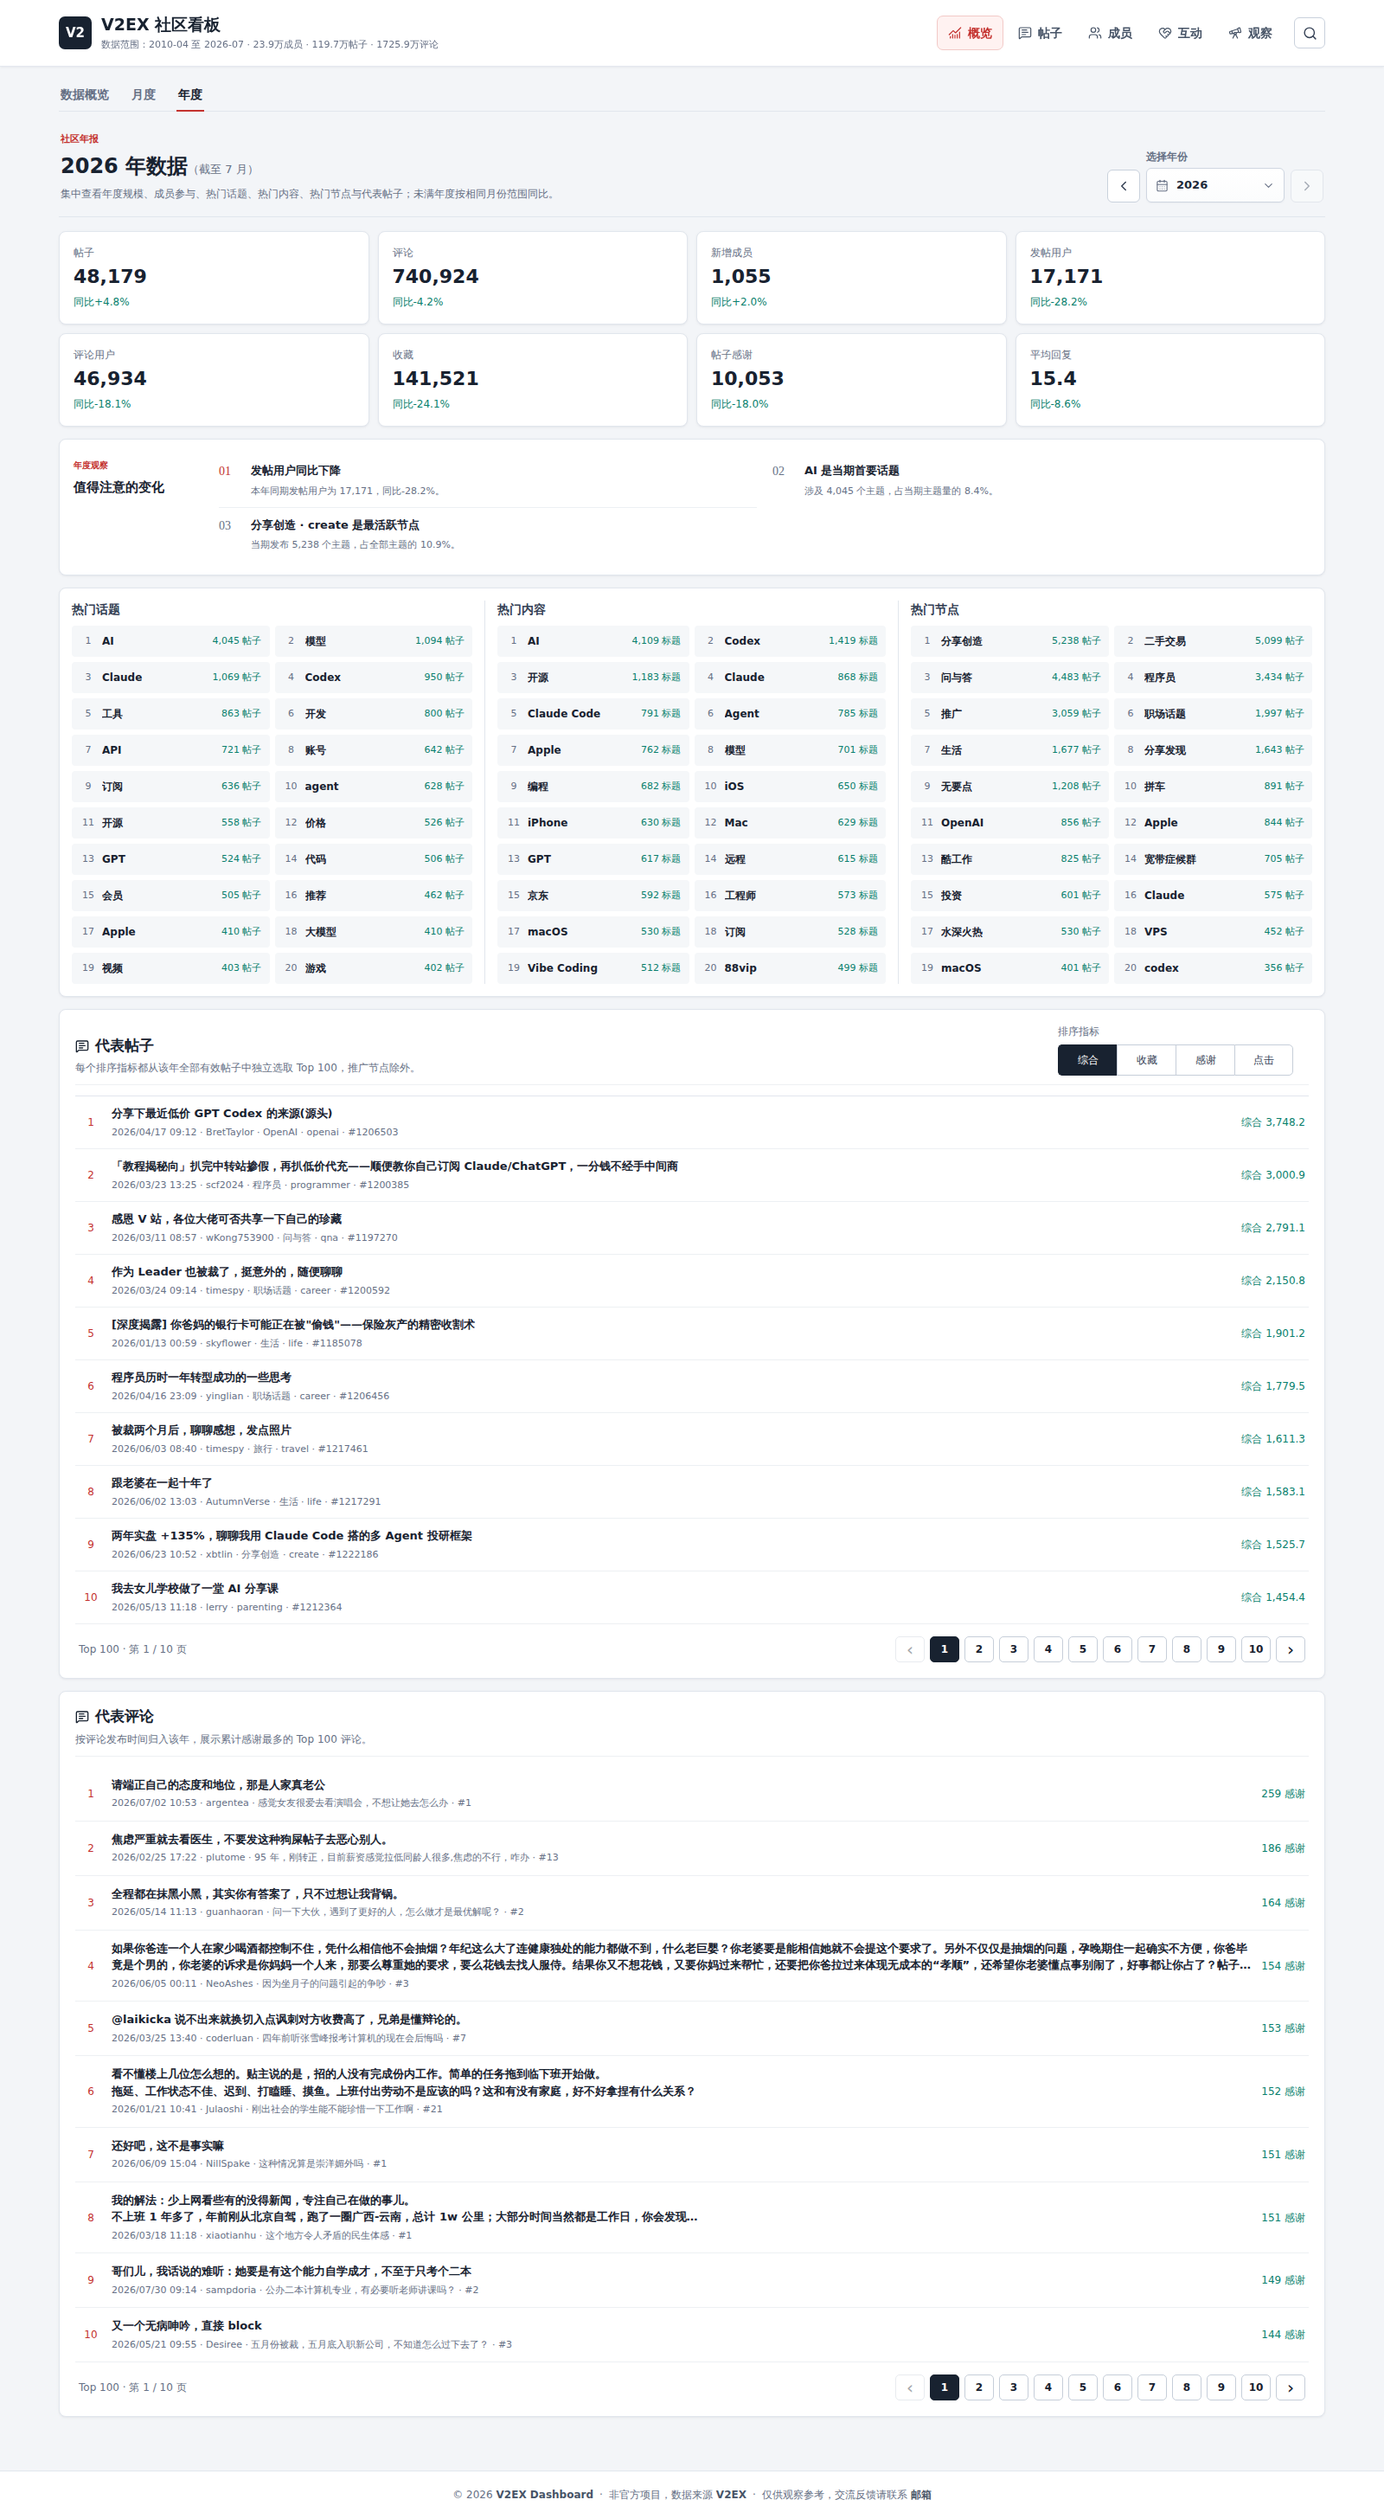
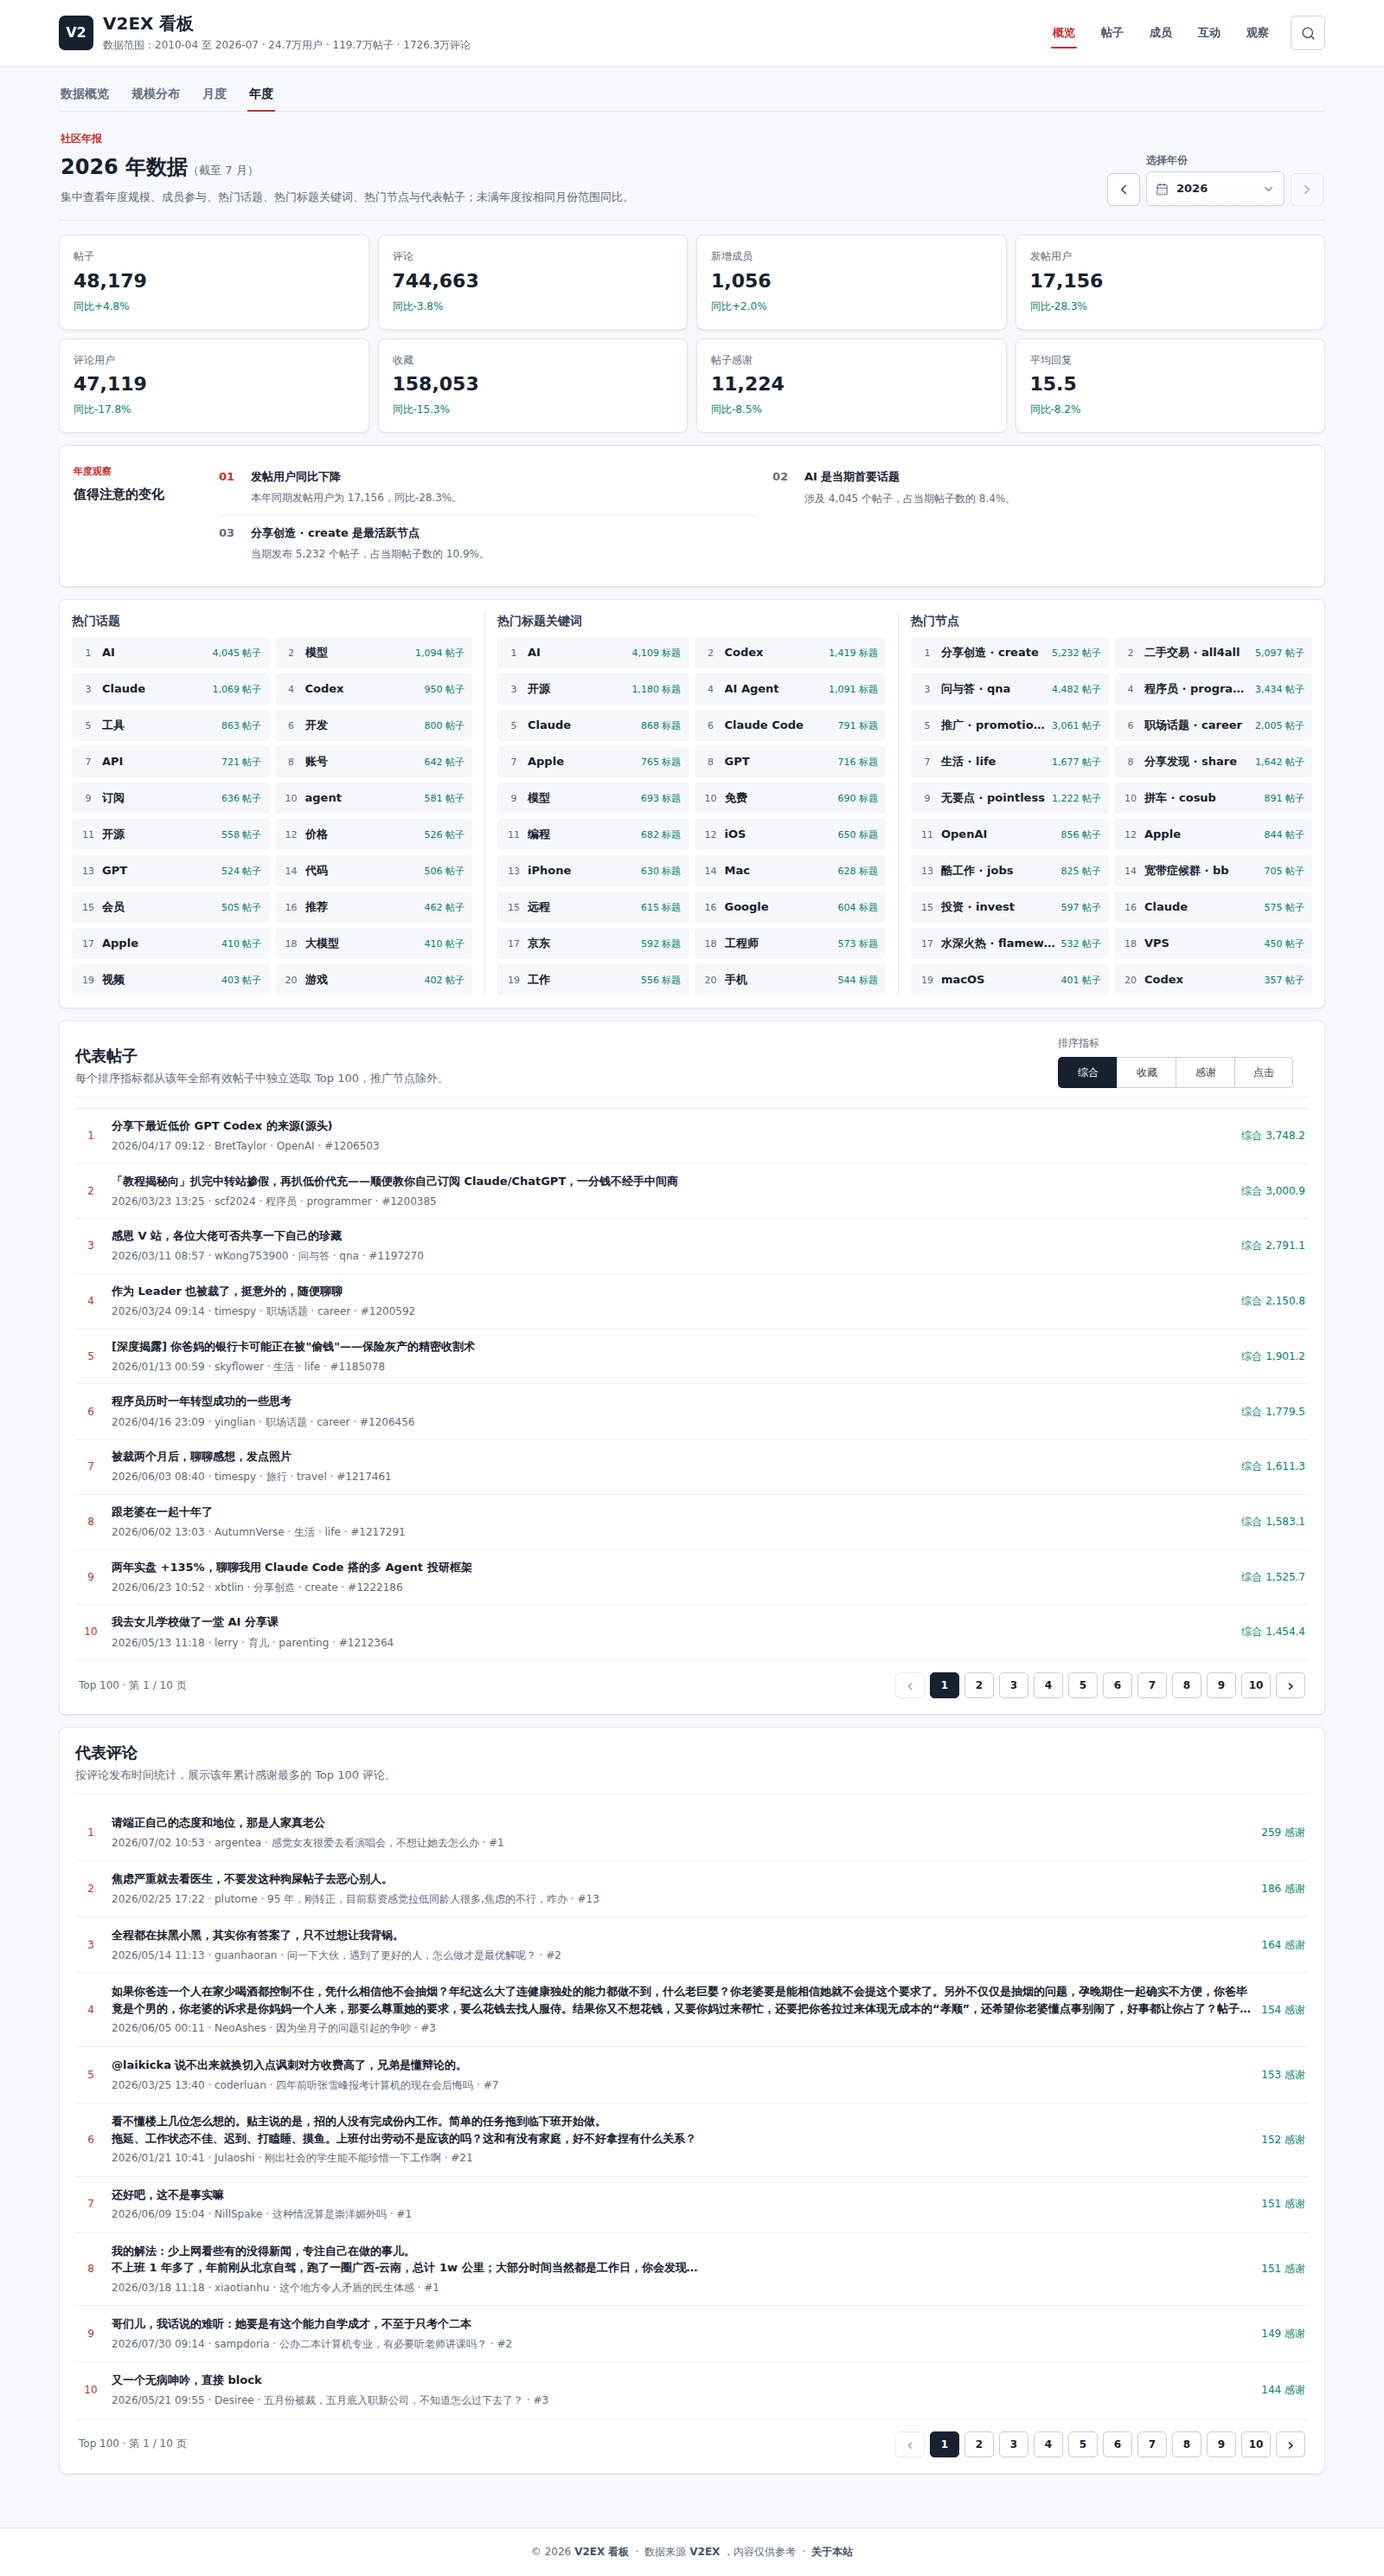
Rename dashboard and harden deployment

diff --git a/analysis/v2ex-analysis/tests/e2e/dashboard.spec.ts b/analysis/v2ex-analysis/tests/e2e/dashboard.spec.ts
@@ -23,6 +23,8 @@ test("loads core views without runtime or layout errors", async ({ page }) => {
   page.on("pageerror", error => errors.push(error.message))
 
   await page.goto("/", { waitUntil: "domcontentloaded" })
+  await expect(page).toHaveTitle("V2EX 看板")
+  await expect(page.getByRole("heading", { name: "V2EX 看板", exact: true })).toBeVisible()
   if ((page.viewportSize()?.width || 0) <= 680) {
     const navigationLayout = await page.locator(".tab-list").evaluate((navigation) => {
       const nav = navigation as HTMLElement
@@ -54,7 +56,8 @@ test("loads core views without runtime or layout errors", async ({ page }) => {
   await page.getByRole("button", { name: "发帖", exact: true }).click()
   await expect(page.getByRole("button", { name: "发帖", exact: true })).toHaveAttribute("aria-pressed", "true")
   await expect(activityHeatmap).toHaveAttribute("data-metric", "topics")
-  await expect(page.locator(".dashboard-footer-inner")).toContainText("非官方项目，数据来源 V2EX，内容仅供参考")
+  await expect(page.locator(".dashboard-footer-inner")).toContainText("数据来源 V2EX，内容仅供参考")
+  await expect(page.locator(".dashboard-footer-inner")).not.toContainText("非官方项目")
   await expect(page.locator(".dashboard-footer-inner").getByRole("link", { name: "邮箱", exact: true })).toHaveCount(0)
   const footerSeparators = page.locator(".dashboard-footer-separator")
   if ((page.viewportSize()?.width || 0) <= 680) {
@@ -159,6 +162,7 @@ test("opens the about page from the footer without extending primary navigation"
 
   await expect(page).toHaveURL(/tab=about/)
   await expect(page.getByRole("heading", { name: "关于本站", exact: true })).toBeVisible()
+  await expect(page.locator(".about-document-header")).toContainText("非官方社区观察项目")
   await expect(page.getByRole("heading", { name: "数据概况", exact: true })).toBeVisible()
   await expect(page.getByRole("heading", { name: "分析覆盖", exact: true })).toBeVisible()
   await expect(page.getByRole("heading", { name: "数据说明", exact: true })).toBeVisible()

diff --git a/analysis/v2ex-analysis/index.html b/analysis/v2ex-analysis/index.html
@@ -7,18 +7,18 @@
     <meta name="description" content="非官方 V2EX 社区数据看板，观察话题、内容、节点、成员与互动的长期变化。">
     <link rel="canonical" href="https://v2ex.taifua.com/">
     <meta property="og:type" content="website">
-    <meta property="og:site_name" content="V2EX Dashboard">
-    <meta property="og:title" content="V2EX 社区看板">
+    <meta property="og:site_name" content="V2EX 看板">
+    <meta property="og:title" content="V2EX 看板">
     <meta property="og:description" content="观察 V2EX 社区话题、内容、节点、成员与互动的长期变化。">
     <meta property="og:url" content="https://v2ex.taifua.com/">
     <meta property="og:image" content="https://v2ex.taifua.com/social-preview.png">
     <meta property="og:image:width" content="1200">
     <meta property="og:image:height" content="630">
     <meta name="twitter:card" content="summary_large_image">
-    <meta name="twitter:title" content="V2EX 社区看板">
+    <meta name="twitter:title" content="V2EX 看板">
     <meta name="twitter:description" content="观察 V2EX 社区话题、内容、节点、成员与互动的长期变化。">
     <meta name="twitter:image" content="https://v2ex.taifua.com/social-preview.png">
-    <title>V2EX 社区看板</title>
+    <title>V2EX 看板</title>
   </head>
   <body>
     <div id="app"></div>

diff --git a/analysis/v2ex-analysis/src/components/DashboardFooter.vue b/analysis/v2ex-analysis/src/components/DashboardFooter.vue
@@ -9,10 +9,10 @@ const emit = defineEmits<{ about: [] }>()
     <div class="dashboard-footer-inner">
       <span class="dashboard-footer-item">
         © {{ year }}
-        <a href="https://github.com/taifuer/v2ex_scrapy" target="_blank" rel="noreferrer">V2EX Dashboard</a>
+        <a href="https://github.com/taifuer/v2ex_scrapy" target="_blank" rel="noreferrer">V2EX 看板</a>
       </span>
       <span class="dashboard-footer-separator" aria-hidden="true">·</span>
-      <span class="dashboard-footer-item">非官方项目，数据来源 <a href="https://v2ex.com/" target="_blank" rel="noreferrer">V2EX</a>，内容仅供参考</span>
+      <span class="dashboard-footer-item">数据来源 <a href="https://v2ex.com/" target="_blank" rel="noreferrer">V2EX</a>，内容仅供参考</span>
       <span class="dashboard-footer-separator" aria-hidden="true">·</span>
       <span class="dashboard-footer-item"><a href="?tab=about" @click.prevent="emit('about')">关于本站</a></span>
     </div>

diff --git a/analysis/v2ex-analysis/src/components/DashboardHeader.vue b/analysis/v2ex-analysis/src/components/DashboardHeader.vue
@@ -16,10 +16,10 @@ const emit = defineEmits<{ select: [id: string] }>()
   <header class="dashboard-header">
     <div class="dashboard-header-inner">
       <div class="dashboard-brand">
-        <a class="brand-link" href="./" aria-label="刷新 V2EX 社区看板首页">
+        <a class="brand-link" href="./" aria-label="刷新 V2EX 看板首页">
           <span class="brand-mark">V2</span>
           <span>
-            <h1>V2EX 社区看板</h1>
+            <h1>V2EX 看板</h1>
             <small class="data-scope data-scope-full">{{ dataScope }}</small>
             <small class="data-scope-compact">{{ compactDataScope }}</small>
             <small class="data-scope-narrow">{{ narrowDataScope }}</small>

diff --git a/analysis/v2ex-analysis/src/views/AboutView.vue b/analysis/v2ex-analysis/src/views/AboutView.vue
@@ -28,7 +28,7 @@ function formatCompactNumber(value: number) {
       <header class="about-document-header">
         <h2>关于本站</h2>
         <p>
-          一个基于 <a href="https://www.v2ex.com/" target="_blank" rel="noreferrer">V2EX</a>
+          本站是一个基于 <a href="https://www.v2ex.com/" target="_blank" rel="noreferrer">V2EX</a>
           公开数据构建的非官方社区观察项目，交流反馈请联系
           <a href="mailto:taifu@taifua.com">邮箱</a>。
         </p>

diff --git a/README.md b/README.md
@@ -1,4 +1,4 @@
-# V2EX Dashboard
+# V2EX 看板
 
 V2EX 全站帖子、评论和成员爬虫，附带按时间、话题、标题关键词、节点、成员和互动指标分析的 Vue 仪表盘。看板支持可分享 URL、规模分布、月度与年度数据、事件注释、重点活跃成员详情和离线社区观察。数据保存到根目录 `v2ex.sqlite`。本项目为非官方社区数据项目。
 
@@ -12,7 +12,7 @@ V2EX 全站帖子、评论和成员爬虫，附带按时间、话题、标题关
 
 ### 概览
 
-![V2EX 社区看板](demo/dashboard-demo.png)
+![V2EX 看板](demo/dashboard-demo.png)
 
 ### 话题演变
 
@@ -150,12 +150,17 @@ npm run build
 使用仓库内的 Nginx 配置构建静态站点容器：
 
 ```bash
-cd analysis/v2ex-analysis
-npm run build
-docker compose up -d --build
+./scripts/deploy_dashboard.sh
 ```
 
-容器仅监听 `127.0.0.1:3090`，由宿主机 Web 服务反向代理。JSON 请求自动携带分析清单版本：带版本的 JSON 与哈希前端资源使用长期不可变缓存，未带版本的 JSON 保留 5 分钟校验缓存；传输启用 Gzip。
+脚本会按需安装依赖、重新生成 `dist`、构建并替换容器，最后检查 `http://127.0.0.1:3090/`。容器仅监听 `127.0.0.1:3090`，由宿主机 Web 服务反向代理。JSON 请求自动携带分析清单版本：带版本的 JSON 与哈希前端资源使用长期不可变缓存，未带版本的 JSON 保留 5 分钟校验缓存；传输启用 Gzip。
+
+更新 README 和分享预览图时，先启动本地开发服务，再运行：
+
+```bash
+cd analysis/v2ex-analysis
+DASHBOARD_URL=http://127.0.0.1:5180 npm run capture:demos
+```
 
 线上演示站使用百度统计记录访问量；统计脚本仅在服务器部署时注入，不进入仓库构建，也不参与看板分析数据。
 

diff --git a/docs/ARCHITECTURE.md b/docs/ARCHITECTURE.md
@@ -1,4 +1,4 @@
-# V2EX Dashboard 技术架构与功能实现
+# V2EX 看板技术架构与功能实现
 
 本文说明从 V2EX 页面到静态看板的完整数据链路。指标定义和当前分析结果见 [数据分析说明](DATA_ANALYSIS.md)，关键取舍和踩坑记录见 [项目复盘](PROJECT_RETROSPECTIVE.md)。
 
@@ -104,7 +104,7 @@ npm run test:e2e
 
 Python 单测覆盖解析、配置、抓取范围、写入和聚合辅助函数；validator 检查 schema、索引引用、数量约束和 manifest 文件大小；构建预算限制 JS、CSS 和最大 JSON 分片；Playwright/Axe 覆盖桌面端、移动端、URL 恢复、按需加载、图表交互、分页、搜索滚动和严重级无障碍问题。
 
-生产使用 Docker 中的 Nginx 托管 `dist/`，开启 Gzip，对带哈希的前端资源使用长期 immutable 缓存，对动态 JSON 使用短缓存和 manifest 版本。容器只绑定本机端口，由宿主机反向代理对外服务。线上统计脚本属于服务器专用配置，不进入仓库。
+生产使用 Docker 中的 Nginx 托管 `dist/`，开启 Gzip，对带哈希的前端资源使用长期 immutable 缓存，对动态 JSON 使用短缓存和 manifest 版本。`scripts/deploy_dashboard.sh` 强制先构建前端，再重建和替换容器并执行本机健康检查，避免复用旧 `dist`；Docker 镜像将大体积 JSON 与 UI 资源分层，以便纯界面更新复用数据层。容器只绑定本机端口，由宿主机反向代理对外服务。线上统计脚本属于服务器专用配置，不进入仓库。
 
 ## 9. 扩展原则
 

diff --git a/docs/PROJECT_RETROSPECTIVE.md b/docs/PROJECT_RETROSPECTIVE.md
@@ -1,4 +1,4 @@
-# V2EX Dashboard 项目复盘
+# V2EX 看板项目复盘
 
 本文复盘截至 2026-08-10 的项目演进，重点不是罗列功能，而是总结如何把一个论坛爬虫逐步建设为可验证、可追溯到原始内容、可静态部署的数据分析产品，并提炼可复用于其他论坛、社区或群聊数据项目的方法。当前实现细节见 [技术架构与功能实现](ARCHITECTURE.md)，指标和结论见 [数据分析说明](DATA_ANALYSIS.md)。
 
